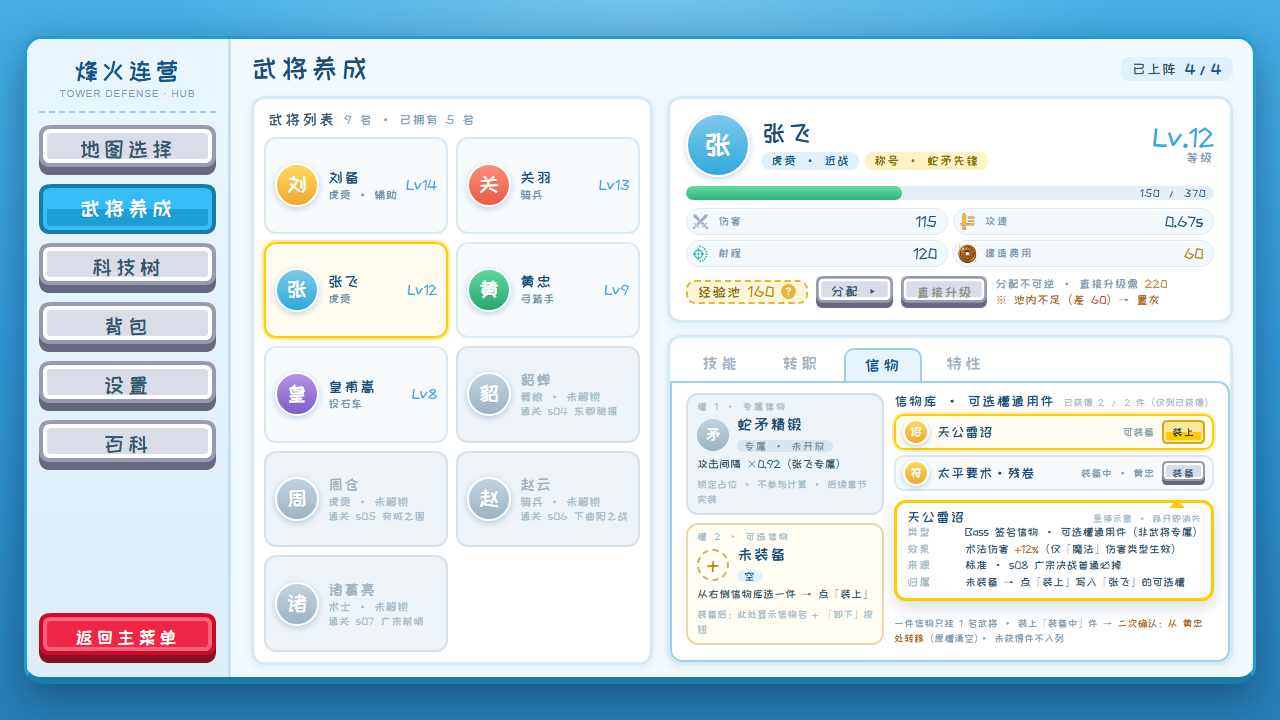
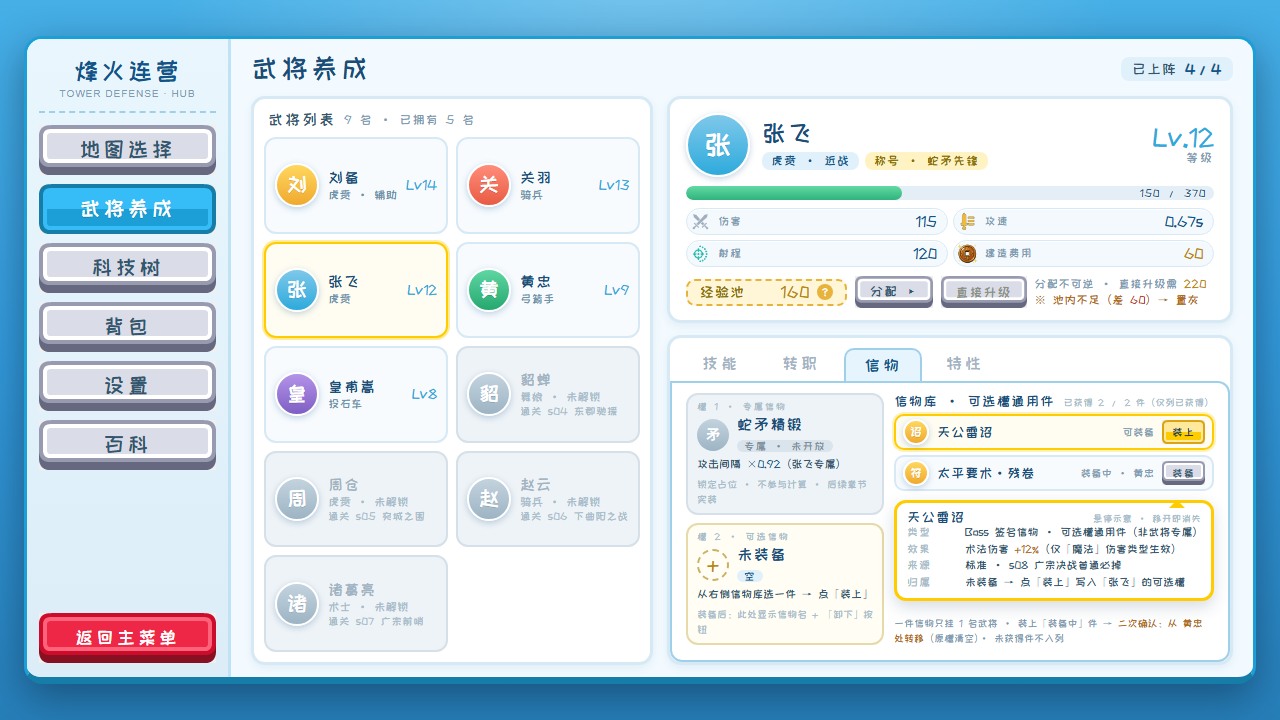
docs(v0.37.56): 经验池余额胶囊调大——数值区预留 6 位数字空间（两屏重渲）
用户 2026-09-16：「经验池胶囊调大一点，最少保证 5-6 位数字的空间」。

`.poolchip`（养成面板基础信息卡经验池行）：内边距 1/10 → 2/12、标签 13.5 → 14px、数值 15 → 16.5px、问号圆 15 → 16px；**数值区改 `display:inline-block; min-width:58px; text-align:right`** —— 胶囊整体 144 → 161px 宽，实测 6 位数「999999」完整放下且不挤压右侧「分配 ▸ / 直接升级」与注脚（DOM 复核：`.poolchip` 右缘 847、「分配 ▸」起点 855；页签区底 662 / 最深内容 develop 605 · relic 645，无越界）。

重渲两屏（1280×720 同参数，PNG 与源码同源）：ui_develop 2C601862919EBD68… / ui_develop_relic C806FC27A418C446…；随附 `ui_develop_relic.png.import`（Godot 导入元数据，与既有 21 个同规格）。文档：GDD v0.37.56 / UI_CONCEPT v0.22 / UI_LAYOUT v0.20.60 同版补记；程序 0.8.16.4 不变。

Changed region(s): [[0.5312, 0.3667, 0.9375, 0.4278]]

diff --git a/docs/ui_concept/src/ui_develop.html b/docs/ui_concept/src/ui_develop.html
@@ -47,11 +47,11 @@
   .pill .v b { font-weight:normal; color:#b8860b; }
   /* 经验池行（v0.17 融入经验池设定）：余额胶囊 = 悬停说明锚点 +「分配 ▸」+「直接升级」+ 不可逆注脚 */
   .poolrow { position:relative; display:flex; align-items:center; gap:8px; margin-top:9px; }
-  .poolchip { display:inline-flex; align-items:center; gap:6px; padding:1px 10px 2px; border-radius:9px; flex:none;
-    background:#fff6d8; border:2px dashed #e8b33c; font-size:13.5px; color:#8a6d00; letter-spacing:1px; white-space:nowrap; }
-  .poolchip b { font-size:15px; color:#b8860b; font-weight:normal; }
-  .poolchip .q { width:15px; height:15px; border-radius:50%; background:#e8b33c; color:#fff;
-    font-size:10px; line-height:15px; text-align:center; letter-spacing:0; }
+  .poolchip { display:inline-flex; align-items:center; gap:7px; padding:2px 12px 3px; border-radius:9px; flex:none;
+    background:#fff6d8; border:2px dashed #e8b33c; font-size:14px; color:#8a6d00; letter-spacing:1px; white-space:nowrap; }
+  .poolchip b { display:inline-block; min-width:58px; text-align:right; font-size:16.5px; color:#b8860b; font-weight:normal; }
+  .poolchip .q { width:16px; height:16px; border-radius:50%; background:#e8b33c; color:#fff;
+    font-size:10.5px; line-height:16px; text-align:center; letter-spacing:0; }
   .pbtn { height:32px; padding:0 15px; border:0; font-family:"ZCOOL-Kuaile",sans-serif; font-size:13px;
     letter-spacing:1px; border-image-slice:24 fill; border-image-width:16px; border-image-repeat:round; cursor:default;
     flex:none; white-space:nowrap; }

diff --git a/docs/ui_concept/src/ui_develop_relic.html b/docs/ui_concept/src/ui_develop_relic.html
@@ -47,11 +47,11 @@
   .pill .v b { font-weight:normal; color:#b8860b; }
   /* 经验池行（v0.17 融入经验池设定）：余额胶囊 = 悬停说明锚点 +「分配 ▸」+「直接升级」+ 不可逆注脚 */
   .poolrow { position:relative; display:flex; align-items:center; gap:8px; margin-top:9px; }
-  .poolchip { display:inline-flex; align-items:center; gap:6px; padding:1px 10px 2px; border-radius:9px; flex:none;
-    background:#fff6d8; border:2px dashed #e8b33c; font-size:13.5px; color:#8a6d00; letter-spacing:1px; white-space:nowrap; }
-  .poolchip b { font-size:15px; color:#b8860b; font-weight:normal; }
-  .poolchip .q { width:15px; height:15px; border-radius:50%; background:#e8b33c; color:#fff;
-    font-size:10px; line-height:15px; text-align:center; letter-spacing:0; }
+  .poolchip { display:inline-flex; align-items:center; gap:7px; padding:2px 12px 3px; border-radius:9px; flex:none;
+    background:#fff6d8; border:2px dashed #e8b33c; font-size:14px; color:#8a6d00; letter-spacing:1px; white-space:nowrap; }
+  .poolchip b { display:inline-block; min-width:58px; text-align:right; font-size:16.5px; color:#b8860b; font-weight:normal; }
+  .poolchip .q { width:16px; height:16px; border-radius:50%; background:#e8b33c; color:#fff;
+    font-size:10.5px; line-height:16px; text-align:center; letter-spacing:0; }
   .pbtn { height:32px; padding:0 15px; border:0; font-family:"ZCOOL-Kuaile",sans-serif; font-size:13px;
     letter-spacing:1px; border-image-slice:24 fill; border-image-width:16px; border-image-repeat:round; cursor:default;
     flex:none; white-space:nowrap; }

diff --git a/docs/modules/UI_LAYOUT.md b/docs/modules/UI_LAYOUT.md
@@ -2,7 +2,7 @@
 
 > 界面职责表见 [UI.md](UI.md)。
 > 文档版本：v0.20.60（2026-09-16）
-> v0.20.60 变更（2026-09-16，**武将养成面板概念稿改版：属性列改百科同款胶囊条 + 信物页签改左右结构（悬停出明细）+ 顶栏资源胶囊清零**（纯文档·概念稿，程序 **0.8.16.4 不变**，用户 2026-09-15「武将养成界面去除黄巾布胶囊」「技能页签去除虚线胶囊」「设计好信物界面（双槽位，角色专属信物目前锁定状态），如何选取信物需要做好设计」+ 2026-09-16「属性图标替换，属性列换成左右结构参考百科里的」「信物页面换成左右结构，左侧两个槽位，右侧选择，物品不直接显示详情信息，鼠标移动到上方显示信物明细」；概念图 `ui_develop` / `ui_develop_job` / `ui_develop_promo` 重渲 + 新增 `ui_develop_relic`，见 UI_CONCEPT v0.22）：①**§6 基础信息卡属性区**由「4 格居中数值卡」改 **百科（§12）同款胶囊条**——2×2 网格 `.pill`：左通用 HUD 图徽（`icons_hud/` 透明符号裸符号落位，伤害 `dmg_physical` / 攻速 `stat_attack_speed` / 射程 `stat_range` / 建造费用 `coin`）+ 中标签（11px 灰蓝）+ 右数值（15px 深蓝，建造费用金）；②**顶栏资源胶囊 = 0**——「黄巾布」胶囊删除（v0.20.11 已登记「资源胶囊按用户要求移除」，概念稿本次补齐），`ui_develop_job` / `ui_develop_promo` 顶栏「练兵令 ×6」一并删除（练兵令随 0.8.15.0 整体删除，属过时残留；转职页内黄巾布**材料 chip** 保留——那是转职真实消耗）；③**「信物」页签版式改左右结构（概念稿，待落地）**：左 198px **双槽位**（槽 1 专属信物 = 锁定占位「专属 · 未开放 · 不参与计算」/ 槽 2 可选信物 = 未装备空态，注「装备后此处显示信物名 + 卸下」）+ 右**信物库**列表（`.pkrow` 行 = 圆图标 + 名称 + 状态 tag + 操作钮：「可装备」→「装上」、「装备中 · XXX」→「装备」；**列表行不写效果详情**）；**悬停 → 「信物明细」浮层**（类型 / 效果 / 来源 / 归属 四行，浮层 = 悬停示意 · 移开即消失）；注脚 = 一件信物只挂 1 名武将 · 装上「装备中」件 → **二次确认从原武将转移（原槽清空）** · 未获得件不入列；已装备槽内出现「卸下」；④技能页签三处 `.sknote` 虚线说明框删除（概念稿，说明信息由正文承担）。v0.20.59 历史行保留。
+> v0.20.60 变更（2026-09-16，**武将养成面板概念稿改版：属性列改百科同款胶囊条 + 信物页签改左右结构（悬停出明细）+ 顶栏资源胶囊清零**（纯文档·概念稿，程序 **0.8.16.4 不变**，用户 2026-09-15「武将养成界面去除黄巾布胶囊」「技能页签去除虚线胶囊」「设计好信物界面（双槽位，角色专属信物目前锁定状态），如何选取信物需要做好设计」+ 2026-09-16「属性图标替换，属性列换成左右结构参考百科里的」「信物页面换成左右结构，左侧两个槽位，右侧选择，物品不直接显示详情信息，鼠标移动到上方显示信物明细」；概念图 `ui_develop` / `ui_develop_job` / `ui_develop_promo` 重渲 + 新增 `ui_develop_relic`，见 UI_CONCEPT v0.22）：①**§6 基础信息卡属性区**由「4 格居中数值卡」改 **百科（§12）同款胶囊条**——2×2 网格 `.pill`：左通用 HUD 图徽（`icons_hud/` 透明符号裸符号落位，伤害 `dmg_physical` / 攻速 `stat_attack_speed` / 射程 `stat_range` / 建造费用 `coin`）+ 中标签（11px 灰蓝）+ 右数值（15px 深蓝，建造费用金）；②**顶栏资源胶囊 = 0**——「黄巾布」胶囊删除（v0.20.11 已登记「资源胶囊按用户要求移除」，概念稿本次补齐），`ui_develop_job` / `ui_develop_promo` 顶栏「练兵令 ×6」一并删除（练兵令随 0.8.15.0 整体删除，属过时残留；转职页内黄巾布**材料 chip** 保留——那是转职真实消耗）；③**「信物」页签版式改左右结构（概念稿，待落地）**：左 198px **双槽位**（槽 1 专属信物 = 锁定占位「专属 · 未开放 · 不参与计算」/ 槽 2 可选信物 = 未装备空态，注「装备后此处显示信物名 + 卸下」）+ 右**信物库**列表（`.pkrow` 行 = 圆图标 + 名称 + 状态 tag + 操作钮：「可装备」→「装上」、「装备中 · XXX」→「装备」；**列表行不写效果详情**）；**悬停 → 「信物明细」浮层**（类型 / 效果 / 来源 / 归属 四行，浮层 = 悬停示意 · 移开即消失）；注脚 = 一件信物只挂 1 名武将 · 装上「装备中」件 → **二次确认从原武将转移（原槽清空）** · 未获得件不入列；已装备槽内出现「卸下」；④技能页签三处 `.sknote` 虚线说明框删除（概念稿，说明信息由正文承担）；⑤**经验池余额胶囊调大**（用户 2026-09-16「最少保证 5-6 位数字的空间」）：`.poolchip` 内边距 2/12、标签 14px、数值 16.5px + **数值区 `min-width:58px` 右对齐**（6 位数实测放得下）、问号圆 16px；`ui_develop` / `ui_develop_relic` 重渲。v0.20.59 历史行保留。
 > 文档版本：v0.20.59（2026-09-15）
 > v0.20.59 变更（2026-09-15，**敌人血条「方案 A · 墨槽胶囊」三档皮肤（表现优化落地）**（程序 0.8.16.3 → **0.8.16.4** / GDD v0.37.53→v0.37.54 / BUGS v0.56（B-080），用户 2026-09-15 反馈「把敌人血条优化一下太简陋了，用红色血条吧」，中途校正「太丑了，你先别改代码了，先把设计做好下」→ 拍板「方案A可以，但是血条和敌人要居中，血条尽量不要挡到敌人模型，精英的血条稍微比普通的再大一点，用白边框」）：**§10 新增「敌人血条」条目**——`HpBar`（ProgressBar）**节点整体删除**，改 `Enemy._draw()` 首行 `_draw_hp_bar()` **纯绘制**（槽 = `draw_polygon` 顶点插值双停渐变 + 胶囊端头、填充 = 三停渐变；尺寸 / 位置单一事实源 `get_hp_bar_rect()`，绘制与断言同源）；**三档按 `tags` 判定**（`HpBarTier`：`boss` > `elite` > 普通）= 普通 `max(体型宽, 24) × 6` 无框 ｜ **精英 `(体型宽 + 6) × 8` + 1px 白框 `#F2F7FA`（α0.92）** ｜ **Boss `max(84, 体型宽 + 24) × 12` + 1px 金框 `#DDAF50`（α0.95）+ 25 / 50 / 75% 三刻度**；**几何 = 居中于体型中心 · 条底 = 身体顶 − 10**（头带占 −7…−2，留 3px 不压模型）；眩晕三小星中心 = 条顶 −7 / 阶段点中心 = 条顶 −16（`HP_BAR_STUN_OFFSET` / `HP_BAR_PHASE_OFFSET` 同源避让）；**皮肤** = 槽底 `#0E151C → #06090D` + 内墨圈（黑 α0.55）+ 外投影（黑 α0.45、y+1）+ 顶高光（白 α0.5），填充 `#FF8B78 → #E5484D(56%) → #9E1F2B`；**新增表现** = 低血 ≤30% 提亮三停 + 静态外发光（`#FF604E` α0.34、r1.5，**不做逐帧脉动**——避免同屏全体 `queue_redraw`）+ **掉血残影**（`#FFE3D8` α0.78；受击取旧比例 → 停留 0.25s → 0.35s 回落，仅回落期重绘）；显示规则不变（满血隐藏 / 受击显示 / 隐匿未现形隐藏）；Boss 血条**撤销 `modulate` 金染**；SmokeRunner 增 6 组断言（三档尺寸 / 居中 / 条底距身体顶 10px / 锚点同源 / 满血隐藏·受击显示·隐匿隐藏 / 受击残影）。
 > 文档版本：v0.20.58（2026-09-15）

diff --git a/docs/GAME_DESIGN.md b/docs/GAME_DESIGN.md
@@ -1,7 +1,7 @@
 # 《烽火连营·三国塔防》设计方案（GDD·总纲）
 
 > 版本：v0.37.56（2026-09-16）
-> v0.37.56 变更（2026-09-16，**武将养成面板概念稿改版：属性列改百科式胶囊条 + 信物页签改左右结构（悬停出明细）+ 顶栏资源胶囊清零**（纯文档·概念稿，程序 **0.8.16.4 不变**，用户 2026-09-15「武将养成界面去除黄巾布胶囊」「技能页签去除虚线胶囊」「设计好信物界面（双槽位，角色专属信物目前锁定状态），如何选取信物需要做好设计」+ 2026-09-16「属性图标替换，属性列换成左右结构参考百科里的」「信物页面换成左右结构，左侧两个槽位，右侧选择，物品不直接显示详情信息，鼠标移动到上方显示信物明细」）：①基础信息卡**属性区改百科（UI_LAYOUT §12）同款胶囊条**（2×2：左通用 HUD 图徽（`icons_hud/` 透明符号，伤害 `dmg_physical` / 攻速 `stat_attack_speed` / 射程 `stat_range` / 建造费用 `coin`）· 中标签 · 右数值）；②**顶栏资源胶囊清零**——「黄巾布」胶囊删除（对齐 v0.20.11 已登记的「资源胶囊移除」口径），`ui_develop_job` / `ui_develop_promo` 顶栏「练兵令 ×6」一并删除（练兵令随 0.8.15.0 整体删除，属过时残留；**转职页内黄巾布材料 chip 保留** = 转职真实消耗）；技能页签三处 `.sknote` 虚线说明框删除；③**信物页签改左右结构**（概念图新增第 21 屏 `ui_develop_relic.png`）：**左 198px 双槽位**（槽 1 专属信物 = 锁定占位「未开放 · 不参与计算」/ 槽 2 可选信物 = 未装备空态）+ **右信物库列表**（「可装备」→「装上」/「装备中 · XXX」→「装备」；**行内不写效果详情**）；**悬停 → 「信物明细」浮层**（类型 / 效果 / 来源 / 归属）；装上他人装备中的信物 → **二次确认从原武将转移（原槽清空）**、未获得件不入列、已装备槽内出现「卸下」——信物规则本体不变（双槽 / 专属槽锁住占位不参与计算 / 唯一性 / 写入 `characters[id].relic_optional`，CHARACTERS 4.8·SAVE_DATA 8 不变）；④文档同批 = UI_CONCEPT v0.22（§4 屏数 20 → 21、§6 基线、§7 记录）/ UI_LAYOUT v0.20.60（§6 属性胶囊条 + 信物页签左右结构）/ `docs/ui_concept/src/README.md`；程序 0.8.16.4 不变。v0.37.55 历史行保留。
+> v0.37.56 变更（2026-09-16，**武将养成面板概念稿改版：属性列改百科式胶囊条 + 信物页签改左右结构（悬停出明细）+ 顶栏资源胶囊清零**（纯文档·概念稿，程序 **0.8.16.4 不变**，用户 2026-09-15「武将养成界面去除黄巾布胶囊」「技能页签去除虚线胶囊」「设计好信物界面（双槽位，角色专属信物目前锁定状态），如何选取信物需要做好设计」+ 2026-09-16「属性图标替换，属性列换成左右结构参考百科里的」「信物页面换成左右结构，左侧两个槽位，右侧选择，物品不直接显示详情信息，鼠标移动到上方显示信物明细」）：①基础信息卡**属性区改百科（UI_LAYOUT §12）同款胶囊条**（2×2：左通用 HUD 图徽（`icons_hud/` 透明符号，伤害 `dmg_physical` / 攻速 `stat_attack_speed` / 射程 `stat_range` / 建造费用 `coin`）· 中标签 · 右数值）；②**顶栏资源胶囊清零**——「黄巾布」胶囊删除（对齐 v0.20.11 已登记的「资源胶囊移除」口径），`ui_develop_job` / `ui_develop_promo` 顶栏「练兵令 ×6」一并删除（练兵令随 0.8.15.0 整体删除，属过时残留；**转职页内黄巾布材料 chip 保留** = 转职真实消耗）；技能页签三处 `.sknote` 虚线说明框删除；③**信物页签改左右结构**（概念图新增第 21 屏 `ui_develop_relic.png`）：**左 198px 双槽位**（槽 1 专属信物 = 锁定占位「未开放 · 不参与计算」/ 槽 2 可选信物 = 未装备空态）+ **右信物库列表**（「可装备」→「装上」/「装备中 · XXX」→「装备」；**行内不写效果详情**）；**悬停 → 「信物明细」浮层**（类型 / 效果 / 来源 / 归属）；装上他人装备中的信物 → **二次确认从原武将转移（原槽清空）**、未获得件不入列、已装备槽内出现「卸下」——信物规则本体不变（双槽 / 专属槽锁住占位不参与计算 / 唯一性 / 写入 `characters[id].relic_optional`，CHARACTERS 4.8·SAVE_DATA 8 不变）；④文档同批 = UI_CONCEPT v0.22（§4 屏数 20 → 21、§6 基线、§7 记录）/ UI_LAYOUT v0.20.60（§6 属性胶囊条 + 信物页签左右结构）/ `docs/ui_concept/src/README.md`；程序 0.8.16.4 不变；⑤**经验池余额胶囊调大**（用户 2026-09-16「经验池胶囊调大一点，最少保证 5-6 位数字的空间」）：`.poolchip` 内边距 1/10 → 2/12、标签 13.5 → 14px、数值 15 → 16.5px 且**数值区 `min-width:58px` 右对齐**（实测 6 位数「999999」完整放得下），问号圆 15 → 16px；`ui_develop` / `ui_develop_relic` 两屏重渲；程序 0.8.16.4 不变。v0.37.55 历史行保留。
 > 版本：v0.37.55（2026-09-15）
 > v0.37.55 变更（2026-09-15，**阶段 8·提交 17 小版本拆分登记：0.8.17.0 局内 HUD v2 换肤 / 0.8.17.1 局内金币获取反馈（金币掉落动画）**（纯文档·排期，程序 0.8.16.x 不变；用户 2026-09-15 拍板「方案可以的，任务排到下一个提交的小版本中」）：**提交 17 = 0.8.17 的两个小版本**——①**0.8.17.0 = 局内 HUD v2 换肤**（按 `ui_battle_hud_v2.png` 概念稿：深墨绿 + 暖金皮肤 / 顶栏图徽化 + 出口旗帜出怪 / 塔详情整合底栏 5 卡 / 军需槽选带 · 局内购买，原提交 17 范围不变）；②**0.8.17.1 = 局内金币获取反馈（金币掉落动画）**——拍板方案 A「纯表现层三段式」：不改经济链路（击杀即时到账；不做地面掉落物 / 手动拾取，保 NUMBERS §1 收入口径与「一关 6~9 座塔」校准）、出生（击杀点弹 2~3 枚，精英 3~4 / Boss 6~8，0.1s 上抛 + 随机散布）→ 飞行（0.35~0.5s 二次贝塞尔飞向顶栏金币锚点）→ 入账（金币缩没 + 胶囊弹跳 + 数字滚动补差）、**显示与真值分离**（任何支出即时落值不滚动）、性能三道闸（~40ms 合簇 / 节点池化 / 屏幕活跃 ≤24）、专用 FX 层（层 2 · 可暂停 · headless 跳过）、波次奖变体（旗帜起飞 + 飘字）、锚点解耦 `UI.get_gold_anchor()`、音效随本小版本（可裁剪）；完整拍板八条与开发前置见 [DESIGN_REVIEW §12.7](DESIGN_REVIEW_AND_DECISIONS.md)（实施前补 UI_LAYOUT §10「金币获取反馈」小节）；**收入数值零改动**（炮灰 10 / 常规 12 / 精英 25 / 波次奖，困难 ×1.6 均不变）。）
 > 版本：v0.37.54（2026-09-15）

diff --git a/docs/modules/UI_CONCEPT.md b/docs/modules/UI_CONCEPT.md
@@ -3,7 +3,7 @@
 > 隶属《烽火连营·三国塔防》设计文档体系，总纲见 [../GAME_DESIGN.md](../GAME_DESIGN.md)。
 > 素材台账见 [ART_ASSETS.md](ART_ASSETS.md)。
 > 文档版本：v0.22（2026-09-16）
-> v0.22 变更（2026-09-16，**养成面板四屏改版：属性列改百科式胶囊（接通用 HUD 图徽）+ 新增第 21 屏「信物」页签（左右结构 + 悬停明细）+ 去黄巾布 / 练兵令胶囊与技能页虚线说明框**（纯文档·素材，程序 **0.8.16.x 不变**，用户 2026-09-15「武将养成界面去除黄巾布胶囊」「技能页签去除虚线胶囊」「设计好信物界面（双槽位，角色专属信物目前锁定状态），如何选取信物需要做好设计」+ 2026-09-16「属性图标替换，属性列换成左右结构参考百科里的」「信物页面换成左右结构，左侧两个槽位，右侧选择，物品不直接显示详情信息，鼠标移动到上方显示信物明细」）：①**属性列**由「4 格居中数值卡」改 **百科同款胶囊条**（`.pills` / `.pill`，2×2：左图标 · 中标签 · 右数值），图标 = `src/icons_hud/` 透明符号 `dmg_physical` / `stat_attack_speed` / `stat_range` / `coin`，四屏同源；②**顶栏胶囊**去「黄巾布」（`ui_develop`），`ui_develop_job` / `ui_develop_promo` 顶栏「练兵令 ×6」一并删除（练兵令随 0.8.15.0 整体删除，顶栏残留属过时件；转职页内的黄巾布材料 chip 保留）；③**技能页签**三处 `.sknote` 虚线说明框删除，四屏死 CSS（`.sknote` / `.statrow` / `.stat`）清理；④**新增第 21 屏 `ui_develop_relic.png`（源码 `src/ui_develop_relic.html`）** = 信物页签改**左右结构**：**左 198px 双槽位**（槽 1 专属信物 = 蛇矛精锻锁定占位「专属 · 未开放 · 不参与计算」；槽 2 可选信物 = 未装备空态，注「装备后此处显示信物名 + 卸下」）+ **右信物库**（`.pkrow` 列表：天公雷诏「可装备」+「装上」/ 太平要术·残卷「装备中 · 黄忠」+「装备」；**列表不写详情**）；**悬停 → 「信物明细」浮层**（类型 / 效果 / 来源 / 归属 四行，浮层标注「悬停示意 · 移开即消失」）；注脚 = 一件信物只挂 1 名武将 · 装上「装备中」件 → **二次确认从原武将转移（原槽清空）** · 未获得件不入列。四屏 1280×720 同参数重渲入库、PNG 与源码同源，MD5 见 §6；排版规范（UI_LAYOUT §6）回写待同工作区并发会话（敌人血条线）落地后补。v0.21 历史行保留。
+> v0.22 变更（2026-09-16，**养成面板四屏改版：属性列改百科式胶囊（接通用 HUD 图徽）+ 新增第 21 屏「信物」页签（左右结构 + 悬停明细）+ 去黄巾布 / 练兵令胶囊与技能页虚线说明框**（纯文档·素材，程序 **0.8.16.x 不变**，用户 2026-09-15「武将养成界面去除黄巾布胶囊」「技能页签去除虚线胶囊」「设计好信物界面（双槽位，角色专属信物目前锁定状态），如何选取信物需要做好设计」+ 2026-09-16「属性图标替换，属性列换成左右结构参考百科里的」「信物页面换成左右结构，左侧两个槽位，右侧选择，物品不直接显示详情信息，鼠标移动到上方显示信物明细」）：①**属性列**由「4 格居中数值卡」改 **百科同款胶囊条**（`.pills` / `.pill`，2×2：左图标 · 中标签 · 右数值），图标 = `src/icons_hud/` 透明符号 `dmg_physical` / `stat_attack_speed` / `stat_range` / `coin`，四屏同源；②**顶栏胶囊**去「黄巾布」（`ui_develop`），`ui_develop_job` / `ui_develop_promo` 顶栏「练兵令 ×6」一并删除（练兵令随 0.8.15.0 整体删除，顶栏残留属过时件；转职页内的黄巾布材料 chip 保留）；③**技能页签**三处 `.sknote` 虚线说明框删除，四屏死 CSS（`.sknote` / `.statrow` / `.stat`）清理；④**新增第 21 屏 `ui_develop_relic.png`（源码 `src/ui_develop_relic.html`）** = 信物页签改**左右结构**：**左 198px 双槽位**（槽 1 专属信物 = 蛇矛精锻锁定占位「专属 · 未开放 · 不参与计算」；槽 2 可选信物 = 未装备空态，注「装备后此处显示信物名 + 卸下」）+ **右信物库**（`.pkrow` 列表：天公雷诏「可装备」+「装上」/ 太平要术·残卷「装备中 · 黄忠」+「装备」；**列表不写详情**）；**悬停 → 「信物明细」浮层**（类型 / 效果 / 来源 / 归属 四行，浮层标注「悬停示意 · 移开即消失」）；注脚 = 一件信物只挂 1 名武将 · 装上「装备中」件 → **二次确认从原武将转移（原槽清空）** · 未获得件不入列。四屏 1280×720 同参数重渲入库、PNG 与源码同源，MD5 见 §6；排版规范已回写 UI_LAYOUT §6（v0.20.60）；⑤**经验池余额胶囊调大**（用户 2026-09-16「经验池胶囊调大一点，最少保证 5-6 位数字的空间」）：`.poolchip` 内边距 1/10 → 2/12、标签 13.5 → 14px、数值 15 → 16.5px 且**数值区 `min-width:58px` 右对齐**（实测 6 位数「999999」完整放得下），问号圆 15 → 16px；`ui_develop` / `ui_develop_relic` 两屏重渲（1280×720 同参数，MD5 `ui_develop.png` 2C601862… / `ui_develop_relic.png` C806FC27…）。v0.21 历史行保留。
 > 文档版本：v0.21（2026-09-15）
 > v0.21 变更（2026-09-15，**生命 / 军功图徽入库（19 → 21 枚透明符号）+ 图鉴敌人屏重渲**（纯文档·素材，程序 **0.8.16.2 不变** / GDD v0.37.51→v0.37.52 / UI_LAYOUT v0.20.57 / ART_PROMPTS v0.15 / ENCYCLOPEDIA v0.1.18 / ART_ASSETS v0.18，用户 2026-09-15 拍板「把通用资源里的爱心抠出来用作敌人生命，军功就用军工这张图」）：①`src/icons_hud/` 增 **`stat_hp.png`**（生命 = 心形，取自通用资源网格图 `icons_battle/stat_hp_source.jpg` 左下图）与 **`merit.png`**（军功 = 战功勋章单张 `icons_battle/merit_source.jpg`），合计 **21 枚 160×160 透明符号**（19 枚旧件重跑逐字节不变）；两件白底直出、只走「去白底 → 归一化」（`prep_icons_hud.py` 新增 `SRC2` 通道，不跑剥底板）；②`ui_encyclopedia_enemy.html` **两枚虚线占位（生命（基准）/ 军功）替换为图徽**（`.ic.ph` 规则随之删除，注脚改已出图），同源重渲入库 `ui_encyclopedia_enemy.png`（MD5 447129DFA23CCA537ED139F6255A105E，见 §6）。v0.20 历史行保留。
 > 文档版本：v0.20（2026-09-15）
